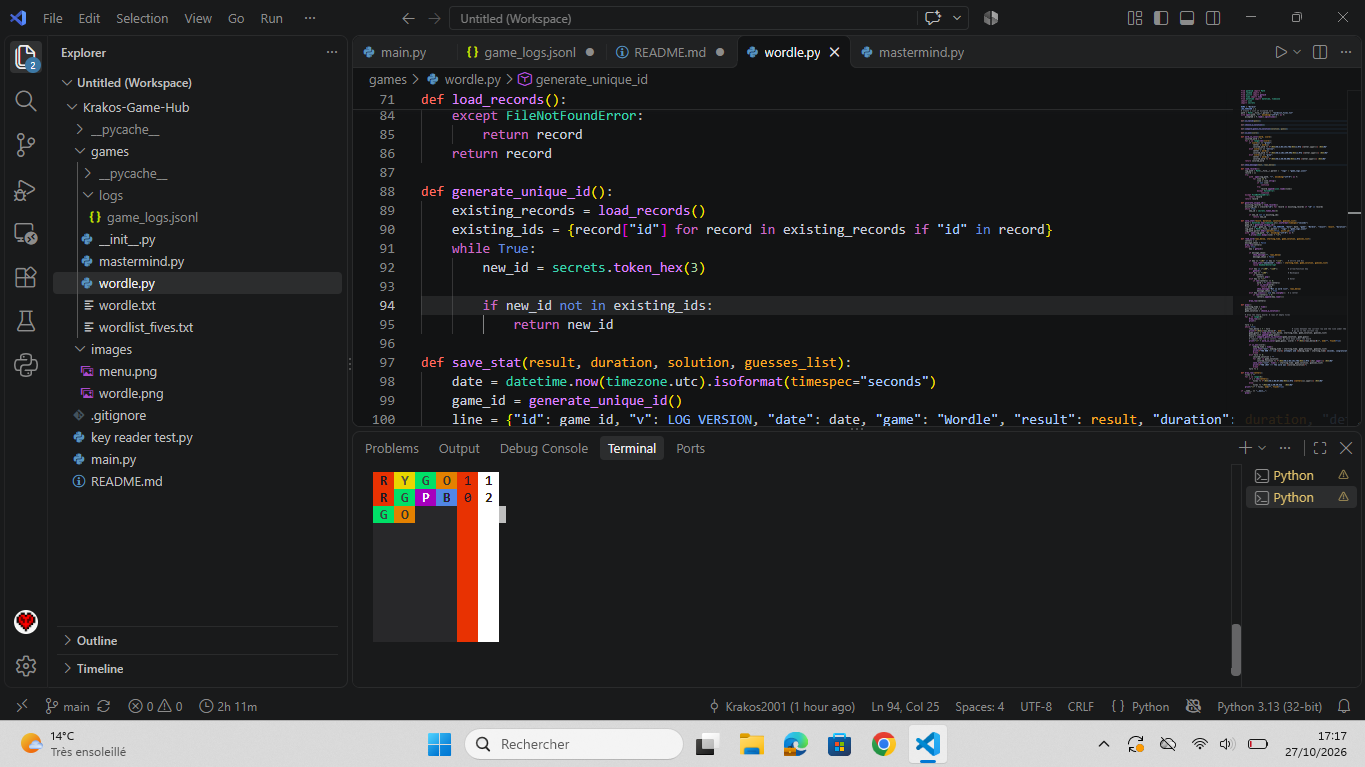
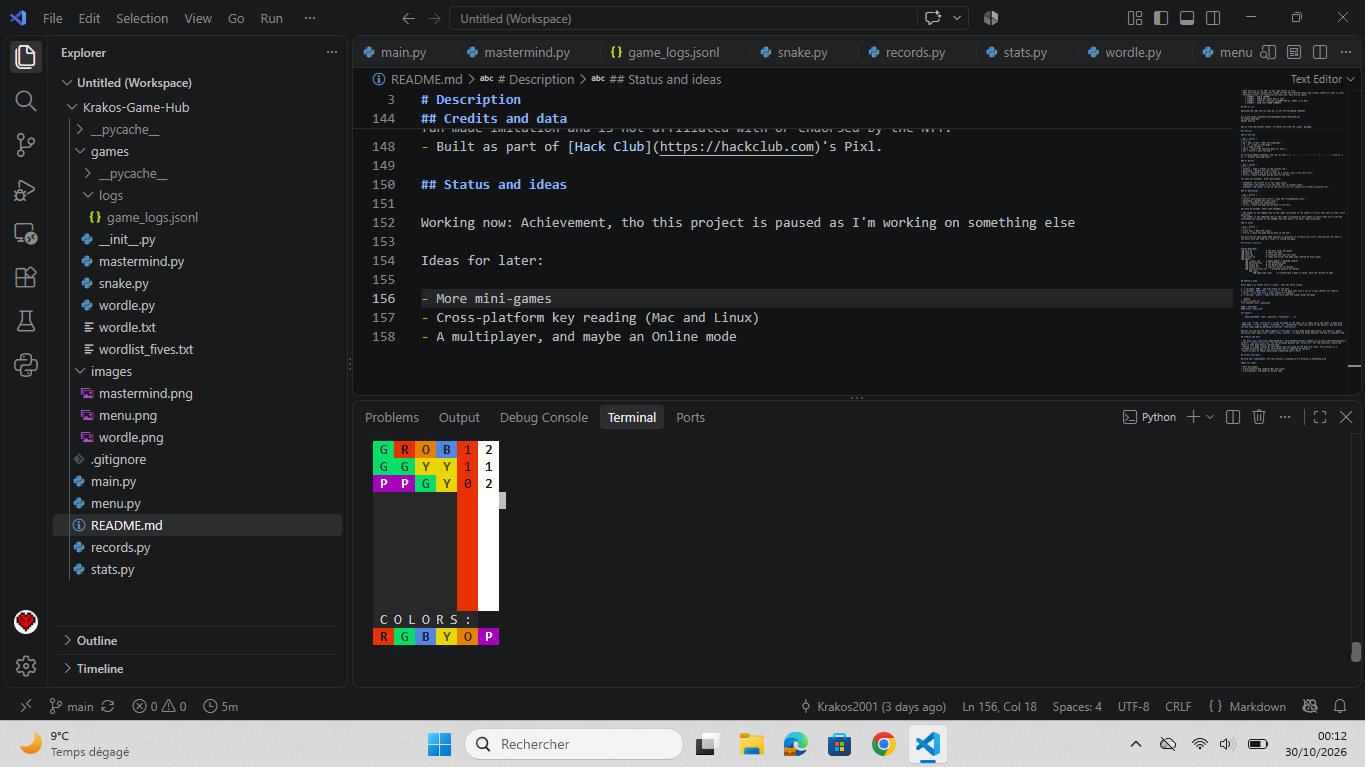
Last README

diff --git a/README.md b/README.md
@@ -9,11 +9,29 @@ A in-terminal hub for mini-games. Play games from a selection of homemade copies
 ### Hub menu
 ![Hub menu](images/menu.png)
 
+### Mastermind board
+![Mastermind board](images/mastermind.png)
+
+### Snake board
+![Snake board](images/snake.png)
+
 ### Wordle board
 ![Wordle board](images/wordle.png)
 
-### Mastermind board
-![Mastermind board](images/mastermind.png)
+## Statistics menus
+![Statistics menu](images/stats.png)
+
+### Global Statistics:
+![Global Statistics](images/stats_global.png)
+
+### Mastermind Statistics:
+![Mastermind Statistics](images/stats_mastermind.png)
+
+### Snake Statistics:
+![Snake Statistics](images/stats_snake.png)
+
+### Wordle Statistics:
+![Wordle Statistics](images/stats_wordle.png)
 
 ## Features
 
